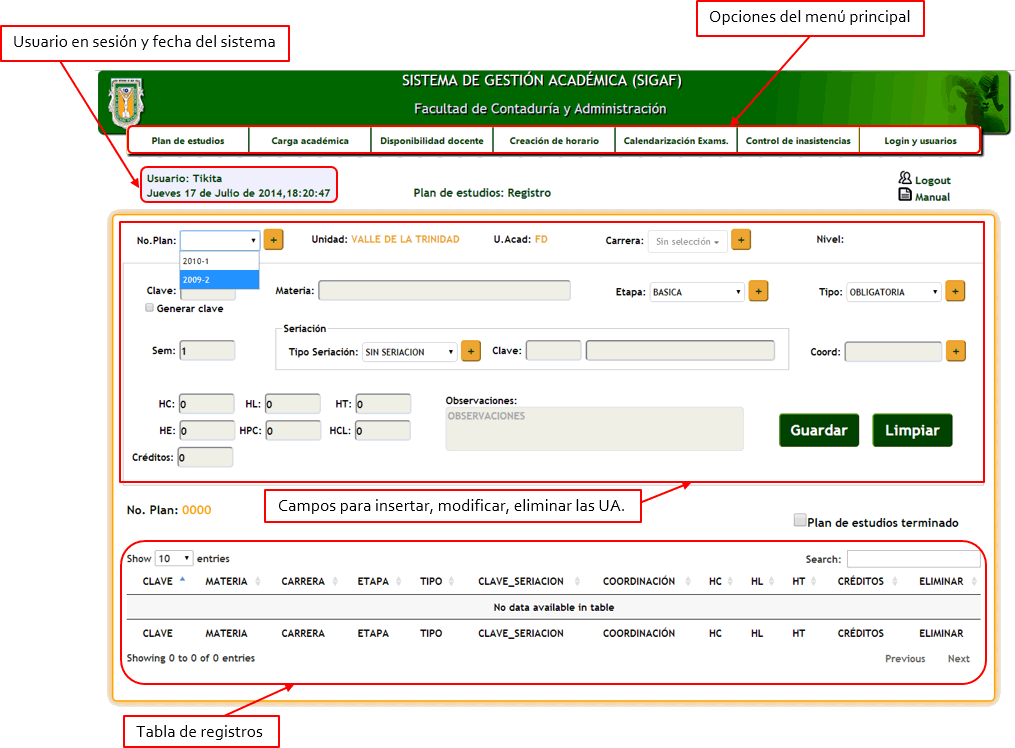
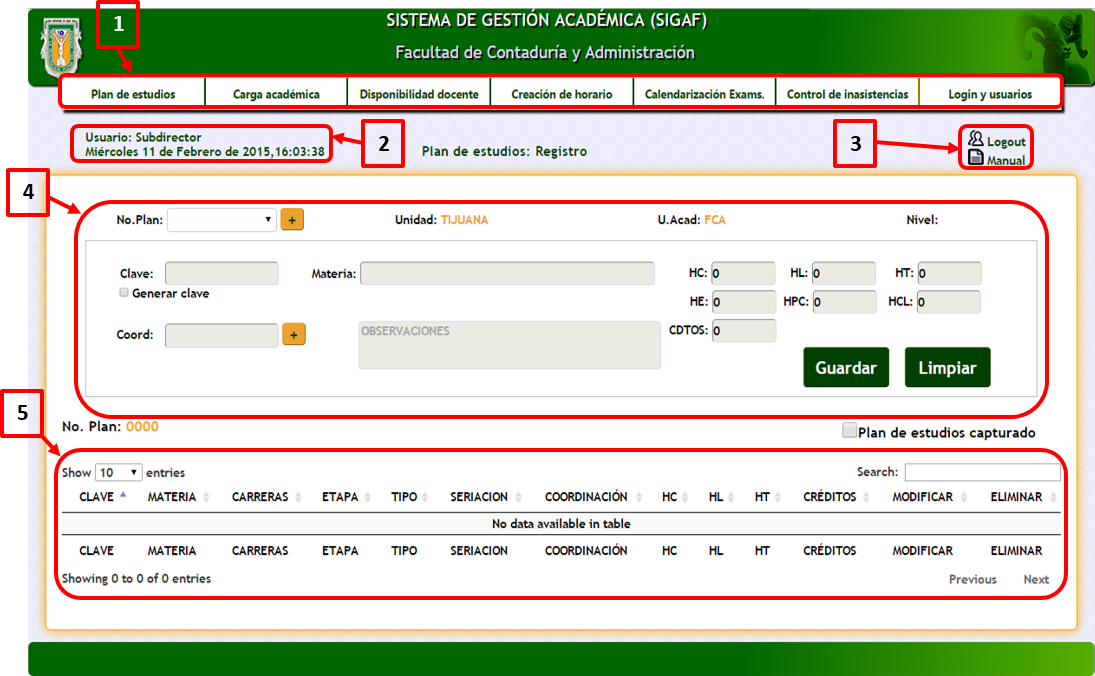
Actualización de ayuda PE

diff --git a/app/views/ayuda/ayuda_pe.blade.php b/app/views/ayuda/ayuda_pe.blade.php
@@ -81,13 +81,13 @@ Otra opción para ubicar los catálogos es por medio de los botones <img src="..
   <h2>País</h2><br>
      <center><img src="../imagenes/catalogos/pais.png"></center>
    <ul class="lista-num">
-   <li> 1.  Para utilizar un catálogo es necesario realizar una búsqueda de dicho catálogo, selecciónelo y presione el botón de buscar, en la parte inferior de la ventana se despliega una tabla con los campos correspondientes.</li>
-    <li>2. Si desea <strong>agregar</strong> un nuevo registro presione el botón de agregar, esta funcionalidad abrirá una ventana (como se muestra en la siguiente figura) donde podrá dar de alta el nuevo registro, introduzca los datos y presione el botón de guardar.<br><br>
+      <li> 1.  Para utilizar un catálogo es necesario realizar una búsqueda de dicho catálogo, selecciónelo y presione el botón de buscar, en la parte inferior de la ventana se despliega una tabla con los campos correspondientes.</li>
+      <li>2. Si desea <strong>agregar</strong> un nuevo registro presione el botón de agregar, esta funcionalidad abrirá una ventana (como se muestra en la siguiente figura) donde podrá dar de alta el nuevo registro, introduzca los datos y presione el botón de guardar.<br><br>
     <center><img src="../imagenes/catalogos/agregarPais.png"></center></li></ul><br>
     <ul class="lista-vineta">
       <li>• Si el registro ya existe y desea <strong>modificarlo</strong>, de doble click sobre el registro deseado y edite los datos, presione el boton del teclado enter</li>
-    <li>• Para <strong>eliminar</strong> el registro presione el botón de eliminar ubicado del lado derecho del registro con un signo de "-".</li>
-    <li>• Si desea <strong>consultar</strong> dentro del catálogo, introduzca la información dentro del cuadro de texto llamado search.</li>
+      <li>• Para <strong>eliminar</strong> el registro presione el botón de eliminar ubicado del lado derecho del registro con un signo de "-".</li>
+      <li>• Si desea <strong>consultar</strong> dentro del catálogo, introduzca la información dentro del cuadro de texto llamado search.</li>
     </ul>
   </ul>
     <a href="#arriba"><img src="../imagenes/arriba.png">Ir arriba</a>
@@ -299,8 +299,15 @@ Otra opción para ubicar los catálogos es por medio de los botones <img src="..
     <div class="content-2">
     <a name="arribaReg"></a>
   <h2>Registro de UA</h2>
-    <p>Contenido de la pantalla de Plan de Estudios<br>
-  <p><strong>Opciones del menú principal</strong><br>
+  
+  <p> El plan de estudios es el conjunto de actividades de enseñanza-aprendizaje que comprende la descripción general de los contenidos de un programa de unidad de aprendizaje (conjunto de materias de mapa curricular). A continuación se muestran las funcionalidades que involucra este subsistema.</p>
+  <br><center><img src="../imagenes/registro/registroUA.png"></center><br>
+  <p> Como se muestra en la Figura anterior la pantalla principal de plan de estudios está compuesta por las siguientes opciones:</p>
+
+
+
+<p>Contenido de la pantalla de Plan de Estudios<br>
+  <p><strong>1. Opciones del menú principal</strong><br>
     El menú está compuesto por las funcionalidades principales que conforman el sistema SIGAF, en cuanto al módulo de Plan de Estudios, esta opción del menú contiene un submenú formado con los siguientes valores:</p>
     <ul class="lista-vineta">
       <li>• Catálogos.</li>
@@ -310,19 +317,21 @@ Otra opción para ubicar los catálogos es por medio de los botones <img src="..
       <li>• Bitácora de plan de estudios.</li>
       <li>• Menú principal.</li>
     </ul>
-    <p><strong>Usuario en sesión y fecha del sistema</strong><br>
+
+    <p><strong>2. Usuario en sesión y fecha del sistema</strong><br>
    Cuando un usuario inicia sesión, en esta parte de la pantalla se indica que usuario es el que está actualmente logueado al sistema.
     La fecha que se muestra en la pantalla se toma de la PC del usuario.</p>
-    <p><strong>Logout y manual</strong><br>
+    <p><strong>3. Logout y manual</strong><br>
     La opción de Logout tiene la función de cerrar la sesión del usuario, solo pulse la opción y saldrá del sistema el cual lo enviará a la ventana de inicio de sesión.
     La opción de manual muestra la guía que el usuario requiere para conocer el funcionamiento correcto del subsistema (módulo) en el que se encuentra.</p>
-    <p><strong>Controles para insertar, modificar y eliminar las UA (Unidades de Aprendizaje).</strong><br>
+    <p><strong>4. Controles para insertar, modificar y eliminar las UA (Unidades de Aprendizaje).</strong><br>
     Muestra cada uno de los controles que se requieren para que el usuario pueda introducir los datos pertinentes del registro de las unidades de aprendizaje que conforman el plan de estudios. Dichos controles también sirven para que el usuario modifique los datos asociados a una unidad de aprendizaje o la elimine.</p>
-    <p><strong>Tabla de registros.</strong><br>
+    <p><strong>5. Tabla de registros.</strong><br>
     Muestra cada uno de los registros que el usuario ha introducido. Mediante esta tabla se pueden cargar los datos en los controles para realizar modificaciones o eliminaciones, solo necesita dar doble click sobre la fila deseada.</p>
-<br><br>
-    <center><img src="../imagenes/registro/registroUAs.png"></center><br>
-  <p>Código de colores</p>
+  <br><br>
+  <p>En la siguiente tabla se muestra el código de colores empleados durante la inserción de los datos. </p>
+
+  <p><strong>Código de colores</strong></p>
     <center><img src="../imagenes/registro/codcolores.png"></center><br>
    
     <p style="color:red"><strong>NOTA:</strong> <br>- Las unidades de aprendizaje pertenecientes a tronco común se registran solo una vez.<br>
@@ -342,12 +351,12 @@ Otra opción para ubicar los catálogos es por medio de los botones <img src="..
             <td><strong>No. Plan:</strong><br>
             Seleccione el plan, previo a este paso debió haber registrado el plan en el catálogo correspondiente.</td>
           </tr>
-          <tr>
+         <!-- <tr>
             <td>2</td>
             <td><img src="../imagenes/registro/p2.png"></td>
             <td><strong>Unidad:</strong><br>
             El control de Unidad obtiene un valor por default de la unidad en la que se registró el usuario que se encuentra en sesión.
-      </td>
+            </td>
           </tr>
           <tr>
             <td>3</td>
@@ -360,42 +369,42 @@ Otra opción para ubicar los catálogos es por medio de los botones <img src="..
             <td><img src="../imagenes/registro/p4.png"></td>
             <td><strong>Carrera:</strong> <br>
         Seleccionar una o más carreras en las que se impartirá la Unidad de Aprendizaje que se está registrando (una Unidad de Aprendizaje puede ser impartida en más de una carrera).</td>
-          </tr>
+          </tr>-->
           <tr>
-            <td>5</td>
+            <td>2</td>
             <td><img src="../imagenes/registro/p5.png"></td>
             <td><strong>Clave:</strong><br>
-        Insertar la Clave de la Unidad de Aprendizaje, al pasar el cursor al siguiente control se validarán los datos introducidos,  en caso de que la clave ya exista se mostrará el siguiente mensaje:<img src="../imagenes/registro/msgClave.png"><br>
+        Insertar la Clave de la Unidad de Aprendizaje, al pasar el cursor al siguiente control se validarán los datos introducidos,  en caso de que la clave ya exista se mostrará el siguiente mensaje:<img src="../imagenes/registro/msgClave.png"><br>Presione el botón ok e inserte una clave valida.
 Si no tiene la clave, active la casilla de verificación Generar clave la cual le generará una clave provisional que después podrá ser actualizada por la real. Solo se pueden introducir números.
             </td>
           </tr>
           <tr>
-            <td>6</td>
+            <td>3</td>
             <td><img src="../imagenes/registro/p6.png"></td>
             <td><strong>Materia: </strong><br>
-        Insertar el nombre de la Unidad de Aprendizaje, a medida que vaya tecleando se le autocompletará el control como referencia de que el nombre de la materia ya existe, el sistema validará su inserción, si ya existe el nombre tecleado, deberá introducir otro nombre.
+          Insertar el nombre de la unidad de aprendizaje. Nota: es posible insertar materias en un plan de estudio con el mismo nombre siempre y cuando tengan diferente clave.
             </td>
           </tr>
-          <tr>
-            <td>7</td>
+          <!--<tr>
+            <td>4</td>
             <td><img src="../imagenes/registro/p7.png"></td>
             <td><strong>Etapa:</strong><br>
         Seleccionar la etapa a la cual pertenece la Unidad de Aprendizaje.</td>
           </tr>
           <tr>
-            <td>8</td>
+            <td>5</td>
             <td><img src="../imagenes/registro/p8.png"></td>
             <td><strong>Tipo:</strong><br>
         Seleccionar el tipo de Unidad de Aprendizaje (se clasifican como Obligatorias u Optativas).</td>
           </tr>
           <tr>
-            <td>9</td>
+            <td>6</td>
             <td><img src="../imagenes/registro/p9.png"></td>
             <td><strong>*Sem:</strong><br>
         Insertar el semestre al cual pertenecerá la Unidad de Aprendizaje, este control puede quedar vacío. Solo se aceptan números.</td>
           </tr>
           <tr>
-            <td>10</td>
+            <td>7</td>
             <td><img src="../imagenes/registro/p10.png"></td>
             <td><strong>Seriación:</strong><br>
         El control de Seriación tiene el valor de SIN SERIACION por default y por consecuencia los siguientes 2 controles inactivos:<br>
@@ -403,61 +412,61 @@ Si no tiene la clave, active la casilla de verificación Generar clave la cual l
         Si desea establecer una seriación cambie este valor seleccionando la opción deseada.</td>
           </tr>
           <tr>
-            <td>11</td>
+            <td>8</td>
             <td><img src="../imagenes/registro/p11.png"></td>
             <td><strong>Clave:</strong><br>
         Insertar la Clave de la Unidad de Aprendizaje con la que se desea establecer una seriación, las claves que se emplean para establecer una serie deben estar registradas, una vez que haya introducido la clave correspondiente se le mostrará el nombre de la Unidad de Aprendizaje asociado a dicha clave. Solo se pueden introducir números.</td>
-          </tr>
+          </tr>-->
+         
           <tr>
-            <td>12</td>
-            <td><img src="../imagenes/registro/p12.png"></td>
-            <td><strong>Coordinación:</strong> <br>
-Seleccionar la coordinación a la que pertenece la unidad de aprendizaje.
-</td>
-          </tr>
-          <tr>
-            <td>13</td>
+            <td>10</td>
             <td><img src="../imagenes/registro/p13.png"></td>
             <td><strong>HC:</strong> <br>
         Insertar las Horas Clase (HC) que tendrá la Unidad de Aprendizaje, solo se aceptan números.</td>
           </tr>
           <tr>
-            <td>14</td>
+            <td>11</td>
             <td><img src="../imagenes/registro/p14.png"></td>
             <td><strong>*HL:</strong><br>
         Insertar las Horas Laboratorio (HL) que tendrá la Unidad de Aprendizaje, solo se aceptan números.</td>
           </tr>
           <tr>
-            <td>15</td>
+            <td>12</td>
             <td><img src="../imagenes/registro/p15.png"></td>
             <td><strong>*HT:</strong><br>
         Insertar las Horas Taller (HT) que tendrá la Unidad de Aprendizaje, solo se aceptan números.</td>
           </tr>
           <tr>
-            <td>16</td>
+            <td>13</td>
             <td><img src="../imagenes/registro/p16.png"></td>
             <td><strong>*HE:</strong> <br>
         Insertar las Horas Extra Clase (HE) que tendrá la Unidad de Aprendizaje, solo se aceptan números, si no tiene asignadas estas horas, el control puede quedar vacío.</td>
           </tr>
           <tr>
-            <td>17</td>
+            <td>14</td>
             <td><img src="../imagenes/registro/p17.png"></td>
             <td><strong>*HPC:</strong><br>
         Insertar las Horas Prácticas de Campo (HPC) que tendrá la Unidad de Aprendizaje, solo se aceptan números, si no tiene asignadas estas horas, el control puede quedar vacío.</td>
           </tr>
           <tr>
-            <td>18</td>
+            <td>15</td>
             <td><img src="../imagenes/registro/p18.png"></td>
             <td><strong>*HCL: </strong><br>
         Insertar las Horas Clínicas (HCL) que tendrá la Unidad de Aprendizaje, solo se aceptan números, si no tiene asignadas estas horas, el control puede quedar vacío.</td>
           </tr>
           <tr>
-            <td>19</td>
+            <td>16</td>
             <td><img src="../imagenes/registro/p19.png"></td>
             <td><strong>Créditos:</strong> <br>
         El valor de los créditos se calculará automáticamente a partir de las horas asignadas.</td>
-          </tr><tr>
-            <td>20</td>
+          </tr>
+          <tr>
+            <td>9</td>
+            <td><img src="../imagenes/registro/p12.png"></td>
+            <td><strong>Coordinación:</strong> <br> Seleccionar la coordinación a la que pertenece la unidad de aprendizaje.</td>
+          </tr>
+          <tr>
+            <td>17</td>
             <td><img src="../imagenes/registro/p20.png"></td>
             <td><strong>*Observaciones:</strong> <br>
         Insertar en este control alguna situación o dato importante asociado a la Unidad de Aprendizaje, si no existe ninguna observación puede quedar vacío.</td>
@@ -516,18 +525,35 @@ En la parte inferior de la figura se muestran los creditos totales de las unidad
       <ul class="lista-num">
         <li>1. Desde la pantalla de registro.</li>
         <li>2. Desde la pantalla de consulta y modificación mediante la ventana de modificar.</li>
-        <li>3. Al arrastrar las UA para cambiarlas de etapa.</li>
+        <li>3. Al arrastrar las UA para cambiarlas de etapa en la ventana de consulta.</li>
       </ul>
     
       <p>Cualquiera de los controles pueden ser modificados.<br><br>
     <strong>Desde la pantalla de registro.</strong><br>
-    Esta opción  se puede llevar a cabo al seleccionar de la tabla inferior la unidad de aprendizaje que se desea actualizar, de click sobre el registro deseado y se cargarán todos los datos correspondientes en los controles mostrados en la parte superior de la pantalla como se muestra en la siguiente figura.</p><br><br>
-      <center><img src="../imagenes/actualizar/actualizar.png"></center><br><br>
-      <p>Después de actualizar el registro deseado pulse en el botón de actualizar o en su defecto si desea abandonar la operación pulse el botón de cancelar.<br><br>
-    <strong>Desde la pantalla de consulta y modificación.</strong> <br>
-  Es necesario hacer click sobre el cuadro que desea actualizar, se abrirá una ventana con los datos cargados de la Unidad de Aprendizaje que usted haya seleccionado, mismos que podrá actualizar. En la siguiente figura se muestra un ejemplo:<br>
- Después de actualizar los datos haga clic sobre el botón de guardar.</p><br>
-      <center><img src="../imagenes/actualizar/modificar.png"></center><br>
+<p><strong>Opción 1:</strong>
+    Seleccione en la tabla inferior la unidad de aprendizaje que se desea actualizar, de click sobre el registro deseado y se cargaran los datos correspondientes en los campos mostrados en la parte superior de la pantalla como se muestra en la siguiente figura.</p>
+  <center><img src="../imagenes/actualizar/actualizarPE.png"></center><br><br>
+
+<p> Después de actualizar el registro deseado pulse en el botón de actualizar o en su defecto si desea abandonar la operación pulse el botón de cancelar.</p>
+ <p> <strong>Opción 2:</strong> En la tabla inferior de la ventana identifique el registro que desea actualizar y pulse el botón de modificar asociado al registro seleccionado (dicho botón se identifica por un lapicito), se abrirá la siguiente ventana.</p>
+<center><img src="../imagenes/actualizar/modUA.png"></center>
+     
+     <p>• Modifique la información correspondiente y pulse el botón de actualizar.</p>
+
+      <p><strong>Opción 3:</strong> <br>
+ 
+     Cuando se registra una unidad de aprendizaje se introducen los datos generales de la materia, se pueden dar situaciones en las que se guarde el registro pero la materia no se asocie a una carrera, etapa, tipo y semestre o en caso de tener seriaciones, en tal situación siga los siguientes pasos:</p>
+      <ul class="lista-num">
+        <li>• En la tabla inferior de la ventana seleccione el registro que desea modificar, presione el botón actualizar seriación el cual lo enviará a la siguiente ventana:
+        <center><img src="../imagenes/actualizar/actUA.png"></center></li>
+        <li><strong>Opción 4:</strong>
+        Si hay una unidad de aprendizaje registrada y desea añadirle una seriación o a un programa educativo, cambiarla de etapa, cambiar el tipo o semestre, selecciónela con un click y pulse el botón de actualizar seriación que se encuentre en la parte superior de la ventana, se abrirá la ventana mostrada en la figura N.
+        </li>
+
+      </ul>
+      
+
+      <p>2.  Desde la pantalla de consulta y modificación. </p>
       <p>Después de actualizar pulse el botón de guardar.<br><br>
     <strong>Al arrastrar las UA para cambiarlas de etapa</strong>. Esta es otra opción para realizar una modificación sobre las UA sin embargo esta solo es aplicable para el cambio de etapa, para realizar el procedimiento solo arrastre y suelte el cuadro en la etapa deseada automáticamente se realiza el cambio.</p><br><br>
       <center><img src="../imagenes/consulta/consultaMat.png"></center>
